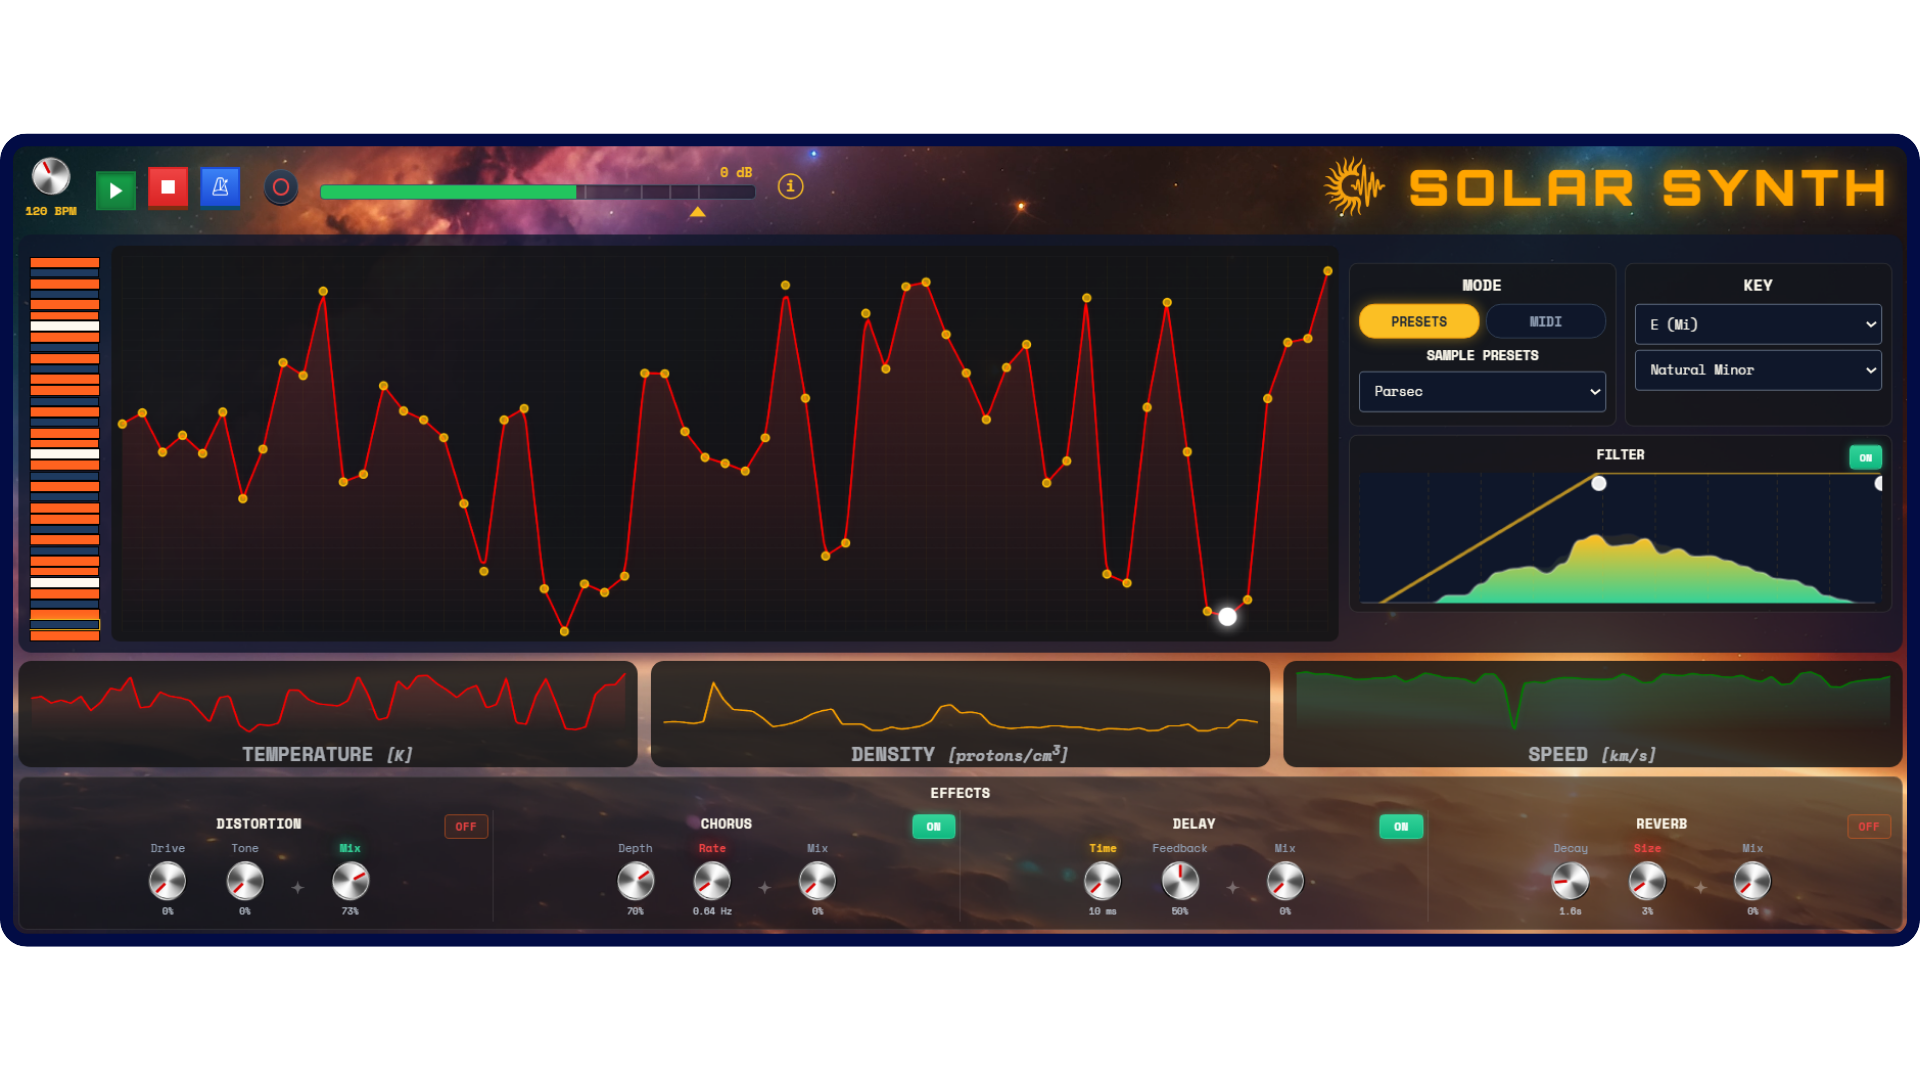
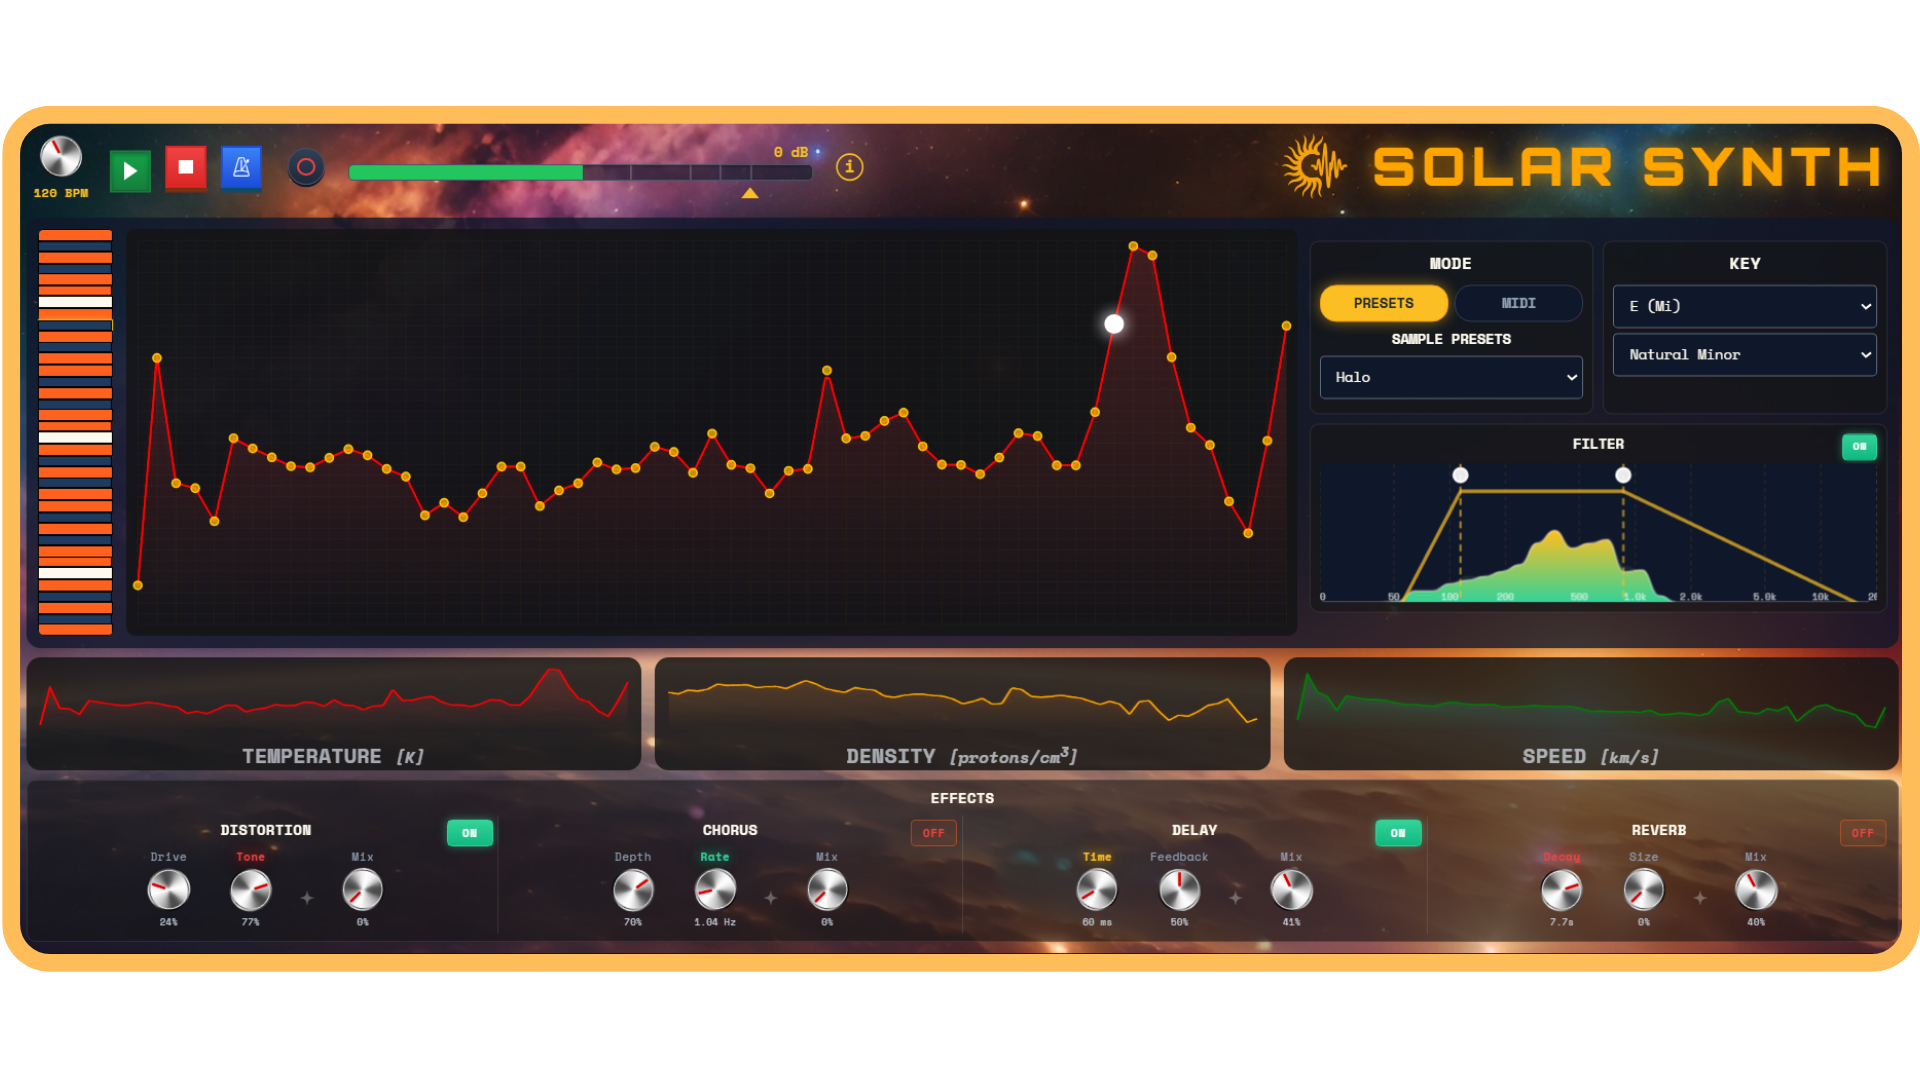
Add filter context menu,  and enhance spectrum visualization.

diff --git a/js/ui.js b/js/ui.js
@@ -734,25 +734,39 @@ export function setupKnobDragDrop() {
             }
         });
 
-        // Right-click to remove filter handle binding
+        // Right-click to show filter context menu
         spectrumCanvas.addEventListener('contextmenu', (e) => {
             e.preventDefault();
+            const filterContextMenu = document.getElementById('filterContextMenu');
+            if (!filterContextMenu) return;
             
-            const rect = spectrumCanvas.getBoundingClientRect();
-            const x = e.clientX - rect.left;
-            const canvasWidth = spectrumCanvas.width;
-            const isHP = x < canvasWidth / 2;
-            
-            window.filterHandleAssignments = window.filterHandleAssignments || {};
-            
-            if (isHP && window.filterHandleAssignments.hp) {
+            filterContextMenu.style.left = e.pageX + 'px';
+            filterContextMenu.style.top = e.pageY + 'px';
+            filterContextMenu.style.display = 'block';
+        });
+        
+        // Filter context menu item handlers
+        const removeHPControl = document.getElementById('removeHPControl');
+        const removeLPControl = document.getElementById('removeLPControl');
+        const filterContextMenu = document.getElementById('filterContextMenu');
+        
+        if (removeHPControl) {
+            removeHPControl.addEventListener('click', () => {
+                window.filterHandleAssignments = window.filterHandleAssignments || {};
                 delete window.filterHandleAssignments.hp;
                 resetFilterHandleColor('hp');
-            } else if (!isHP && window.filterHandleAssignments.lp) {
+                if (filterContextMenu) filterContextMenu.style.display = 'none';
+            });
+        }
+        
+        if (removeLPControl) {
+            removeLPControl.addEventListener('click', () => {
+                window.filterHandleAssignments = window.filterHandleAssignments || {};
                 delete window.filterHandleAssignments.lp;
                 resetFilterHandleColor('lp');
-            }
-        });
+                if (filterContextMenu) filterContextMenu.style.display = 'none';
+            });
+        }
     }
 
     function updateFilterHandleColor(handleType, chartSource) {
@@ -806,8 +820,13 @@ export function setupKnobDragDrop() {
 
     // Close context menu on click elsewhere
     document.addEventListener('click', (e) => {
+        const contextMenu = document.getElementById('knobContextMenu');
+        const filterContextMenu = document.getElementById('filterContextMenu');
         if (contextMenu && !contextMenu.contains(e.target) && !e.target.closest('.effect-knob, .knob')) {
             contextMenu.style.display = 'none';
+        }
+        if (filterContextMenu && !filterContextMenu.contains(e.target) && e.target.id !== 'spectrumCanvas') {
+            filterContextMenu.style.display = 'none';
         }
     });
 

diff --git a/js/spectrum.js b/js/spectrum.js
@@ -209,7 +209,7 @@ export function startSpectrumLoop() {
                     }
                     
                     const responseDb = 20 * Math.log10(Math.max(0.001, response));
-                    const y = height - ((responseDb + 50) / 50) * height;
+                    const y = height - ((responseDb + 50) / 50) * height * 0.80;
                     
                     if (isFirstPoint) {
                         spectrumCtx.moveTo(x, y);
@@ -220,6 +220,25 @@ export function startSpectrumLoop() {
                 }
                 spectrumCtx.stroke();
             }
+            
+            // Draw vertical dashed lines for cutoff frequencies
+            spectrumCtx.strokeStyle = 'rgba(251, 191, 36, 0.6)';
+            spectrumCtx.lineWidth = 2;
+            spectrumCtx.setLineDash([6, 4]);
+            
+            // Highpass cutoff line
+            spectrumCtx.beginPath();
+            spectrumCtx.moveTo(hpX, 0);
+            spectrumCtx.lineTo(hpX, height);
+            spectrumCtx.stroke();
+            
+            // Lowpass cutoff line
+            spectrumCtx.beginPath();
+            spectrumCtx.moveTo(lpX, 0);
+            spectrumCtx.lineTo(lpX, height);
+            spectrumCtx.stroke();
+            
+            spectrumCtx.setLineDash([]);
             
             // Draw filter handles with dynamic colors
             spectrumCtx.fillStyle = hpHandleColor;
@@ -238,6 +257,30 @@ export function startSpectrumLoop() {
             spectrumCtx.lineWidth = 2;
             spectrumCtx.stroke();
         }
+        
+        // Draw frequency labels at the bottom
+        const frequencyLabels = [20, 50, 100, 200, 500, 1000, 2000, 5000, 10000, 20000];
+        const hzToPixelForLabel = (hz) => {
+            const log20 = Math.log(20);
+            const log20k = Math.log(20000);
+            const logHz = Math.log(hz);
+            return ((logHz - log20) / (log20k - log20)) * width;
+        };
+        
+        spectrumCtx.font = '8px "Space Mono", monospace';
+        spectrumCtx.fillStyle = 'rgba(255, 255, 255, 0.7)';
+        spectrumCtx.textAlign = 'center';
+        
+        frequencyLabels.forEach(freq => {
+            const x = hzToPixelForLabel(freq);
+            let label;
+            if (freq >= 1000) {
+                label = (freq / 1000).toFixed(freq >= 10000 ? 0 : 1) + 'k';
+            } else {
+                label = Math.round(freq).toString();
+            }
+            spectrumCtx.fillText(label, x, height - 2);
+        });
         
         spectrumAnimationId = requestAnimationFrame(loop);
     };

diff --git a/js/main.js b/js/main.js
@@ -69,4 +69,46 @@ window.addEventListener('DOMContentLoaded', async () => {
     } catch (e) {
         console.error('❌ Errore durante l\'inizializzazione:', e);
     }
+    
+    // Easter egg: press 's' to show logo
+    let easterEggLogo = null;
+    let easterEggActive = false;
+    
+    document.addEventListener('keydown', (e) => {
+        if (e.key.toLowerCase() === 's' && !easterEggActive) {
+            easterEggActive = true;
+            
+            // Create logo element if it doesn't exist
+            if (!easterEggLogo) {
+                easterEggLogo = document.createElement('img');
+                easterEggLogo.id = 'easterEggLogo';
+                easterEggLogo.src = 'assets/logo.svg';
+                easterEggLogo.alt = 'Solar Synth';
+                document.body.appendChild(easterEggLogo);
+            }
+            
+            // Random size between 100px and 500px
+            const randomSize = Math.floor(Math.random() * 400) + 100;
+            easterEggLogo.style.width = randomSize + 'px';
+            easterEggLogo.style.height = randomSize + 'px';
+            
+            // Random position (accounting for logo size to keep it on screen)
+            const maxX = window.innerWidth - randomSize;
+            const maxY = window.innerHeight - randomSize;
+            const randomX = Math.max(0, Math.floor(Math.random() * maxX));
+            const randomY = Math.max(0, Math.floor(Math.random() * maxY));
+            easterEggLogo.style.left = randomX + 'px';
+            easterEggLogo.style.top = randomY + 'px';
+            
+            // Reset animation by removing and re-adding class
+            easterEggLogo.classList.remove('active');
+            void easterEggLogo.offsetWidth; // Force reflow
+            easterEggLogo.classList.add('active');
+            
+            // Reset flag after animation completes
+            setTimeout(() => {
+                easterEggActive = false;
+            }, 1200);
+        }
+    });
 });

diff --git a/js/tutorial.js b/js/tutorial.js
@@ -21,7 +21,7 @@ class TutorialManager {
         <div style="display: flex; justify-content: center; width: 100%; margin-top: 10px;">
             <img src="assets/tutorial images/solarsynth.png" 
                  alt="Solar Synth Welcome" 
-                 style="width: 100%; height: auto; max-height: 250px; object-fit: contain; border-radius: 6px;">
+                 style="width: 100%; height: auto; object-fit: contain; border-radius: 6px;">
         </div>
         `,
                 buttons: ["NEXT"],
@@ -96,9 +96,9 @@ class TutorialManager {
                 title: "effects",
                 text: `
         <p style="margin-bottom: 20px; font-size: 15px; line-height: 1.5;">
-            Shape your tone using the provided <span style="color: #fbbf24; font-weight: 700;">Effects</span> and <span style="color: #fbbf24; font-weight: 700;">Filter</span>. 
+            Shape your tone using the provided <span style="color: #fbbf24; font-weight: 700;">Effects</span> and <span style="color: #fbbf24; font-weight: 700;">Filter</span>. Drag the handles to tune cutoff frequencies and scroll with the mouse wheel to adjust the filter's slope. Double click any knob to reset it to default.
             <br><br>
-            <span style="color: #fb923c; font-weight: 700;">Solar Automation</span>: Drag and drop any of the three graphs onto an effect knob. The live solar data will assume control, modulating your sound in real-time! 
+            <span style="color: #fb923c; font-weight: 700;">Solar Automation</span>: Drag and drop any of the three graphs onto an effect knob. The live solar data will assume control, modulating your sound in real-time! Right click the knob to remove the automation.
             <br><br>
             Finally press the <span style="color: #fb923c; font-weight: 700;">Record Button</span> to capture and save the Sun's performance.
         </p>

diff --git a/style.css b/style.css
@@ -1618,3 +1618,28 @@ html, body {
     background-color: rgba(226, 232, 240, 0.2);
     transform: translateY(1px);
 }
+
+/* ============================================================
+   EASTER EGG - Logo animation
+============================================================ */
+#easterEggLogo {
+    position: fixed;
+    pointer-events: none;
+    z-index: 9999;
+    opacity: 0;
+}
+
+@keyframes easterEggFade {
+    0% {
+        opacity: 1;
+        transform: scale(1);
+    }
+    100% {
+        opacity: 0;
+        transform: scale(0.8);
+    }
+}
+
+#easterEggLogo.active {
+    animation: easterEggFade 1.2s cubic-bezier(0.25, 0.46, 0.45, 0.94) forwards;
+}

diff --git a/index.html b/index.html
@@ -284,6 +284,12 @@
     <div class="context-menu-item" id="removeControl">Remove Control</div>
 </div>
 
+<!-- Context Menu per il Filter Spectrum -->
+<div id="filterContextMenu" class="context-menu" style="display: none;">
+    <div class="context-menu-item" id="removeHPControl">Remove control from High Pass</div>
+    <div class="context-menu-item" id="removeLPControl">Remove control from Low Pass</div>
+</div>
+
 <script src="https://cdn.jsdelivr.net/npm/tone@14.8.39/build/Tone.min.js"></script>
 <script type="module" src="js/main.js"></script>
 
